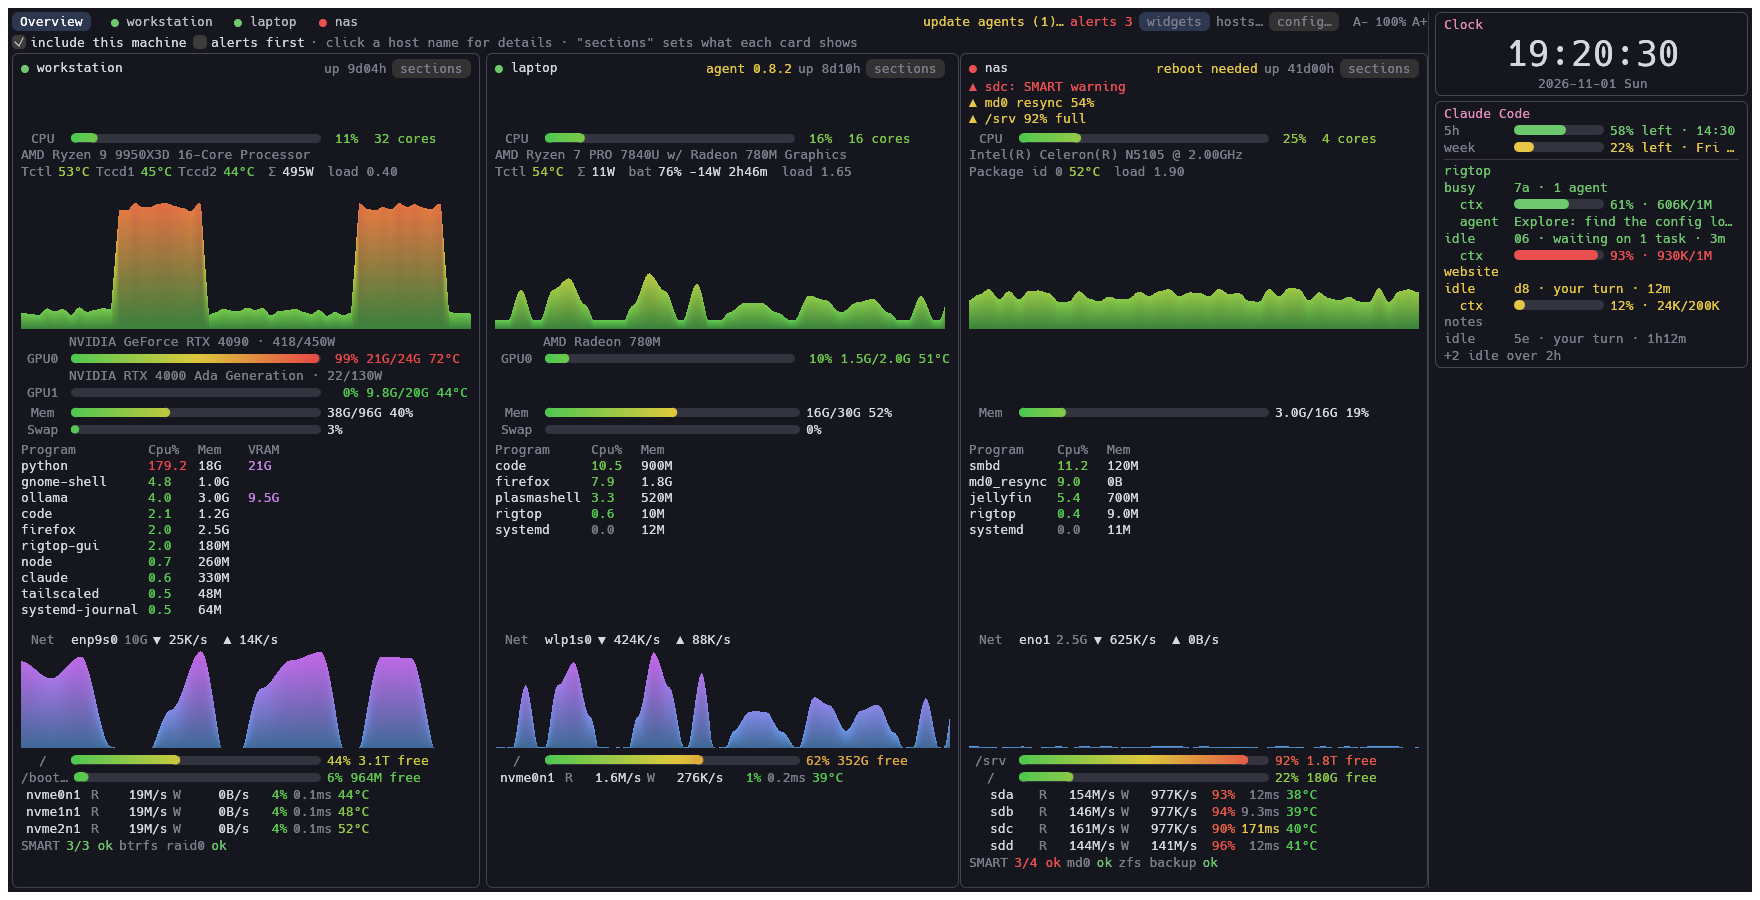
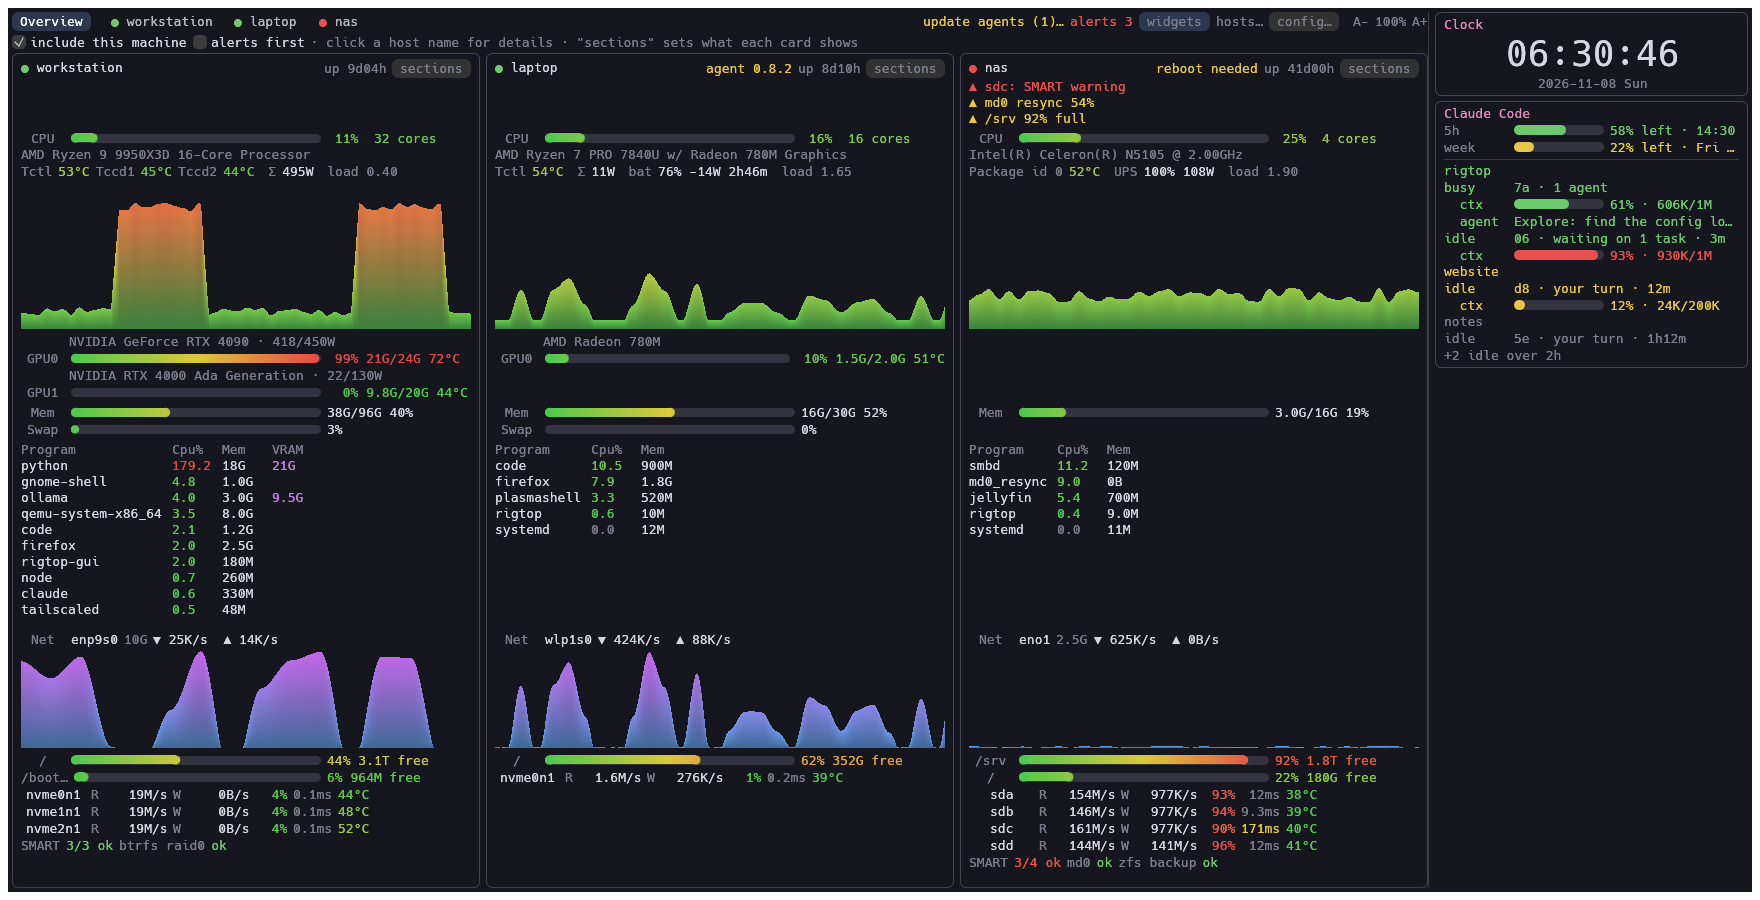
README: screenshots of 0.30: UPS, virtual machines, clock, addresses
The screenshots were from 0.26. They now show the CPU clock, the
interface's addresses, a libvirt virtual machine in the container column
(the demo's workstation runs one) and the UPS on the NAS's overview card,
and the terminal UI's storage box fitting its column. A new one shows
the NAS in the terminal UI, below the goals: a drive with reallocated
sectors, request times, an md resync, a ZFS mirror and the UPS. The
goals mention UPSes.

diff --git a/crates/rigtop-core/src/demo.rs b/crates/rigtop-core/src/demo.rs
@@ -292,6 +292,17 @@ fn workstation(t: f64) -> Snapshot {
             42,
             9 * 86_400,
         ),
+        // A Windows virtual machine under libvirt, idling.
+        process(
+            4_810,
+            "qemu-system-x86_64",
+            "/usr/bin/qemu-system-x86_64 -name guest=win11-dev,debug-threads=on -machine pc-q35-9.2",
+            "libvirt-qemu",
+            3.0 + 3.0 * wobble(62, t, 4.0),
+            8 * GIB,
+            12,
+            2 * 86_400,
+        ),
         process(
             3_120,
             "gnome-shell",
@@ -548,11 +559,12 @@ fn workstation(t: f64) -> Snapshot {
         (3_150, 3_120),
         (3_180, 3_120),
     ];
-    // A small web app in Docker containers.
+    // A small web app in Docker containers, and a libvirt virtual machine.
     let containers = [
         (1_402, "app-db-1"),
         (1_266, "app-redis-1"),
         (1_270, "app-web-1"),
+        (4_810, "win11-dev"),
     ];
     for process in &mut processes {
         if process.name == "rustc" {

diff --git a/README.ja.md b/README.ja.md
@@ -13,15 +13,17 @@
 
 [English README](README.md)
 
-![rigtop の TUI: CPU の各コア、メモリ、GPU 2枚、SMART と btrfs RAID を含むストレージの状態、ネットワーク、プロセスごとのコンテナと GPU の使用率を出すプロセス一覧](docs/images/rigtop-tui.png)
+![rigtop の TUI: CPU の各コアとクロック、メモリ、GPU 2枚、SMART と btrfs RAID を含むストレージの状態、インターフェースのアドレス付きのネットワーク、プロセスごとのコンテナや仮想マシンと GPU の使用率を出すプロセス一覧](docs/images/rigtop-tui.png)
 
 ## 目標
 
 - btop と同じ一覧性: CPU（全体・コアごと・温度・クロック）、全 GPU、メモリ、ストレージ、ネットワーク、プロセス一覧（kill / 強制 kill）を1画面に。
 - 既存のモニターが手薄な**ストレージの健康状態**: mdadm の状態と再同期の進み具合、ZFS のプール（raidz・mirror などの構成、ドライブごとの状態と読み・書き・チェックサムのエラー回数、直近の scrub、データのエラー）、btrfs の RAID 構成とデバイスごとのエラー回数、NVMe の温度、SMART。ZFS の詳細は `zpool status` から読み、多くの環境で root は不要です。
 - プロセスごとの GPU 使用率と VRAM（NVIDIA、NVML 経由）、ディスク I/O、プロセスが動いているコンテナや仮想マシン（Docker・Podman・Kubernetes・LXC・systemd-nspawn・libvirt・Proxmox VE、Linux）。
-- CPU + GPU の消費電力の合計、ファン回転数（各系統に任意の名前を付けられる）。
+- CPU + GPU の消費電力の合計、ファン回転数（各系統に任意の名前を付けられる）、[Network UPS Tools](#upsnetwork-ups-tools) 経由の UPS。
 - **SSH だけで複数ホストを監視**: `rigtop --agent` が標準入出力で計測値を流すので、常駐プロセスもポート開放も不要。
+
+![NAS での rigtop の TUI: 代替処理済みセクタで SMART の警告が出たドライブ、ディスクごとの使用率と応答時間、md の RAID5 の再同期、ZFS のミラーと直近の scrub、消費電力の隣の UPS](docs/images/rigtop-tui-nas.png)
 
 ## ロードマップ
 
@@ -140,7 +142,7 @@ cargo run --release -p rigtop -- --help  # オプション（--interval-ms、--c
 
 ### GUI
 
-![rigtop-gui: 同じパネル構成のネイティブウィンドウ。滑らかなグラフとバーで、パネルはリサイズ・並べ替えできる。プロセスはツリー表示](docs/images/rigtop-gui.png)
+![rigtop-gui: 同じパネル構成のネイティブウィンドウ。滑らかなグラフとバーで、パネルはリサイズ・並べ替えできる。プロセスはツリー表示で、コンテナ列に libvirt の仮想マシン、ネットワークにインターフェースのアドレス](docs/images/rigtop-gui.png)
 
 ```sh
 cargo run --release -p rigtop-gui            # オプションは TUI と同じ（--interval-ms、--config）
@@ -212,7 +214,7 @@ GUI では **hosts…**（タブの並び、または手元の機だけを表示
 
 ホストが2台以上あると、全ホストを並べた**オーバービュー**から始まります。ホストごと（手元の機を含む）の詳細表示はタブで切り替えます。各ホストのカードには、まず要注意の項目（ストレージのエラー、SMART の異常、RAID の劣化、残り容量の少ないファイルシステム、高温の CPU・GPU・ドライブ）を出し、続けて CPU・GPU・メモリ・プロセス上位・ネットワーク・ストレージを、この順にカードに入る分だけ出します。さらに余白があれば、詳細（CPU 名・GPU 名・ディスクの I/O）、次に CPU と通信量のグラフを出します。横に並んだカードは、各欄の開始位置を揃えます。順番は `[overview] sections`（全体）、ホストごとの `sections`、GUI のカードの「sections」メニューで変えられます。手元の機のカードを出すかどうかは `[overview] include_local`（GUI はチェックボックス、TUI は `l` キー）で切り替えます。カードは設定の順に並びます。`[overview] alerts_first = true`（GUI は「alerts first」）にすると、要注意のホストを先頭に並べます（つながらないか critical の警告があるもの、次に warning のあるもの。それ以外は元の順番のまま）。TUI では `Tab` と `0`〜`9` で、オーバービューと各ホストを切り替えます。
 
-![rigtop-gui で3台を並べたオーバービュー: GPU 2枚で学習中のワークステーション、バッテリー駆動のノート PC、代替処理済みセクタのあるドライブで赤く表示され、RAID の再同期・容量の逼迫・ZFS のプールも出ている NAS。右には時計と Claude Code のウィジェット](docs/images/rigtop-gui-overview.png)
+![rigtop-gui で3台を並べたオーバービュー: GPU 2枚で学習中のワークステーション、バッテリー駆動のノート PC、代替処理済みセクタのあるドライブで赤く表示され、RAID の再同期・容量の逼迫・ZFS のプールも出ている、UPS につないだ NAS。右には時計と Claude Code のウィジェット](docs/images/rigtop-gui-overview.png)
 
 rigtop は OS の `ssh`（Windows では標準の OpenSSH クライアント）で、各ホストの `rigtop --agent` を起動します。`~/.ssh/config`・鍵・`ProxyJump` はいつもどおり使えます。常駐プロセスもポート開放も不要で、エージェントは接続が切れると終了し、rigtop は自動で再接続します。つながらない間は、そのホストのカード・タブ・見出しに、どれくらいの間・いつから途切れているかを出します（`offline for 5m (since 14:03)`）。詳細表示していないホストからは、プロセスの上位だけを受け取ります。
 

diff --git a/README.md b/README.md
@@ -13,15 +13,17 @@ A system monitor for workstations, laptops and NAS — an alternative to btop th
 
 [日本語版 README](README.ja.md)
 
-![rigtop TUI: CPU cores, memory, two GPUs, storage health with SMART and btrfs RAID, network, and a process list with each process's container and GPU use](docs/images/rigtop-tui.png)
+![rigtop TUI: CPU cores with their clock, memory, two GPUs, storage health with SMART and btrfs RAID, network with the interface's addresses, and a process list with each process's container or virtual machine and GPU use](docs/images/rigtop-tui.png)
 
 ## Goals
 
 - The btop overview on one screen: CPU (total, per core, temperatures, clock), every GPU, memory, storage, network, and a process list with kill / force kill.
 - **Storage health**, which existing monitors mostly skip: mdadm array state and resync progress, ZFS pools (layout such as raidz or mirror, each device's state and read, write and checksum errors, the last scrub, data errors), btrfs RAID profiles and per-device error counters, NVMe temperatures, and SMART health. ZFS details come from `zpool status`, which needs no root on most systems.
 - Per-process GPU usage and VRAM (NVIDIA, via NVML), per-process disk I/O, and the container or virtual machine each process runs in (Docker, Podman, Kubernetes, LXC, systemd-nspawn, libvirt, Proxmox VE; Linux).
-- Combined CPU + GPU power draw and fan speeds (with your own labels for fan channels).
+- Combined CPU + GPU power draw, fan speeds (with your own labels for fan channels), and UPSes through [Network UPS Tools](#ups-network-ups-tools).
 - **Multiple hosts over plain SSH**: `rigtop --agent` streams snapshots over stdin/stdout, so there is no daemon to run and no port to open.
+
+![rigtop TUI on a NAS: a drive flagged by SMART for reallocated sectors, each disk's busy share and request time, an md RAID5 resync, a ZFS mirror with its last scrub, and the UPS next to the power draw](docs/images/rigtop-tui-nas.png)
 
 ## Roadmap
 
@@ -140,7 +142,7 @@ cargo run --release -p rigtop -- --help  # options (--interval-ms, --config, --d
 
 ### GUI
 
-![rigtop-gui: the same panels in a native window, with smooth graphs and meters, resizable and rearrangeable, here with the process tree](docs/images/rigtop-gui.png)
+![rigtop-gui: the same panels in a native window, with smooth graphs and meters, resizable and rearrangeable, here with the process tree, a libvirt virtual machine in the container column, and the interface's addresses](docs/images/rigtop-gui.png)
 
 ```sh
 cargo run --release -p rigtop-gui            # same options: --interval-ms, --config
@@ -212,7 +214,7 @@ In the GUI, **hosts…** (in the tab bar, or in the CPU panel title while only t
 
 With more than one host, rigtop opens on an **overview** with one card per host, plus a tab per host (this machine included) for the full detail view. Cards show alerts (storage errors, failing SMART, degraded RAID, nearly full filesystems, hot CPUs, GPUs and drives) and then CPU, GPU, memory, the top processes, network and storage, in that order and as far as the card has room; room to spare goes to details (CPU model, GPU names, disk I/O) and then to CPU and network graphs. The cards of a row line up section by section. Change the default order with `[overview] sections`, per host with `sections`, or in the GUI with each card's "sections" menu. Whether this machine gets a card is `[overview] include_local` (or the checkbox in the GUI, `l` in the TUI). Cards follow the configured order; with `[overview] alerts_first = true` (or "alerts first" in the GUI), hosts that need attention come first: unreachable or with a critical alert, then with warnings, the others in their order. In the TUI, `Tab` and `0`-`9` switch between the overview and the hosts.
 
-![rigtop-gui showing an overview of three hosts: a workstation training on two GPUs, a laptop on battery, and a NAS flagged red for a drive with reallocated sectors, with a RAID resync, a nearly full filesystem and a ZFS pool; a clock and Claude Code widget on the right](docs/images/rigtop-gui-overview.png)
+![rigtop-gui showing an overview of three hosts: a workstation training on two GPUs, a laptop on battery, and a NAS on a UPS flagged red for a drive with reallocated sectors, with a RAID resync, a nearly full filesystem and a ZFS pool; a clock and Claude Code widget on the right](docs/images/rigtop-gui-overview.png)
 
 rigtop starts `rigtop --agent` on each remote host through your system's `ssh` (the built-in OpenSSH client on Windows), so `~/.ssh/config`, keys and `ProxyJump` work as usual. There is no daemon to run and no port to open; the agent exits when the connection closes, and rigtop reconnects by itself. While a host cannot be reached, its card, tab and title say for how long and since when (`offline for 5m (since 14:03)`). Hosts not shown in detail only send their top processes.
 

diff --git a/CHANGELOG.md b/CHANGELOG.md
@@ -28,7 +28,8 @@ include breaking changes).
   checked with a libvirt domain) and other machines registered with
   systemd-machined, and Proxmox VE's guests by their id (`vm 100`,
   `ct 101`; from the cgroups Proxmox VE uses, not yet tried on a Proxmox
-  host). The per-container summary adds them up like containers.
+  host). The per-container summary adds them up like containers. The
+  demo's workstation runs a virtual machine.
 
 ### Fixed
 - GUI overview in a narrow window (below about 1250 px with the widget
